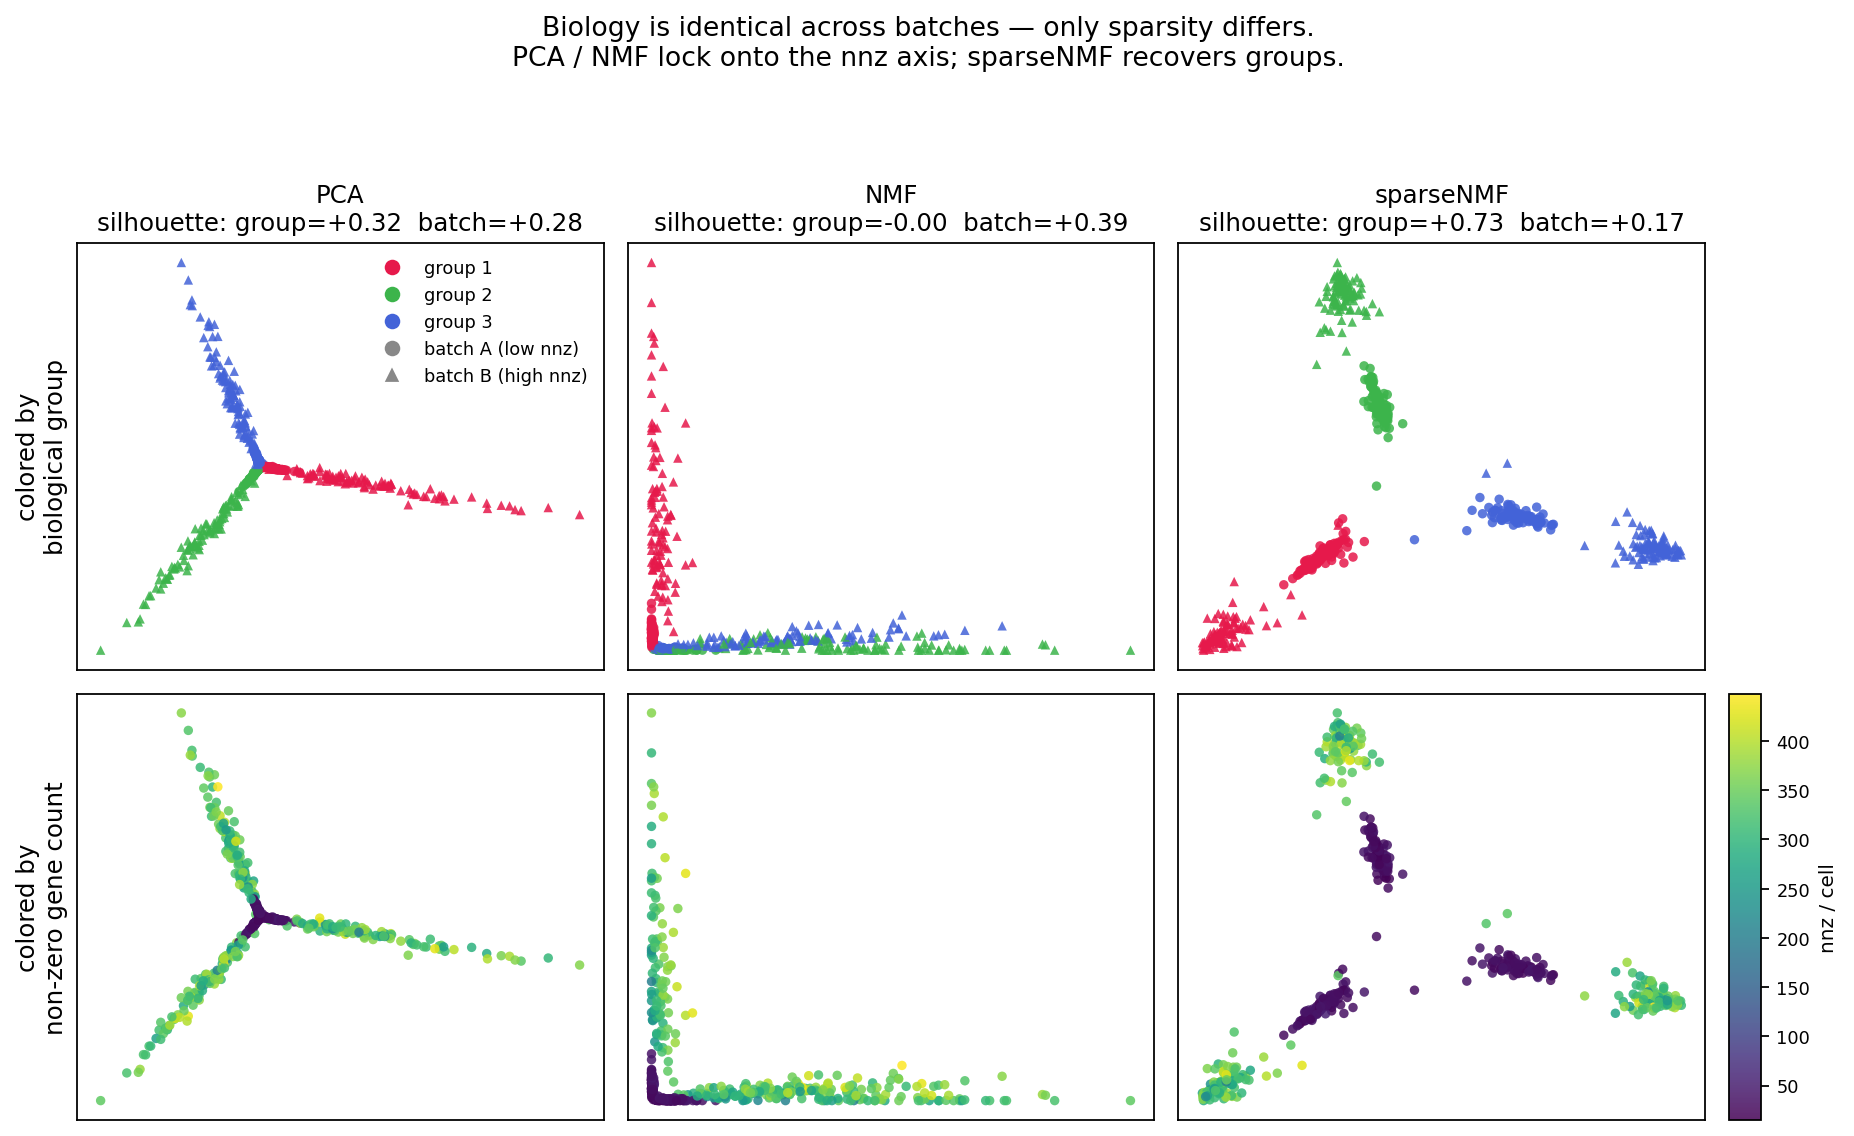
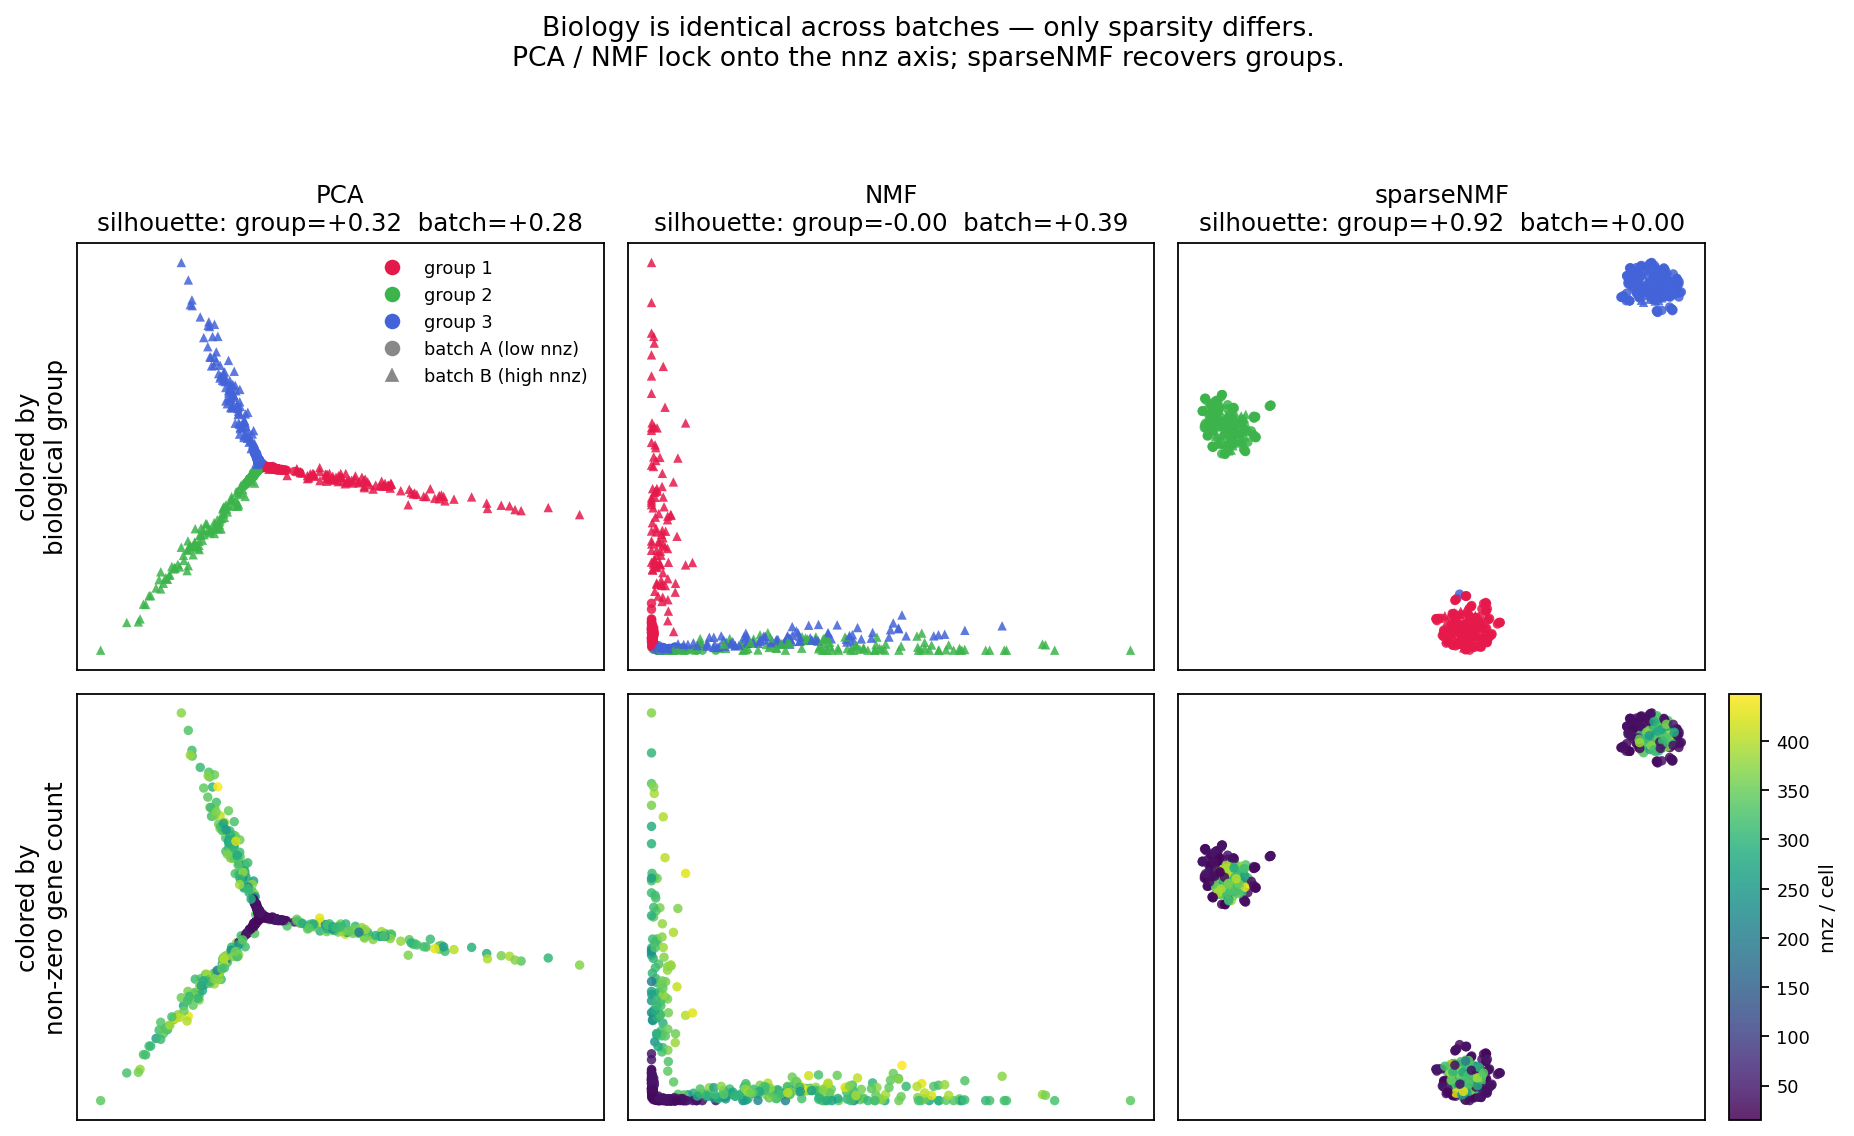
demo: project sparseNMF W via UMAP (standard single-cell workflow)
PCA(2) on the high-dim W matrix was a quick stand-in but loses the
non-linear cluster geometry that's the whole point of an embedding.
UMAP is the conventional 2-D projector after a high-dim factorization
in single-cell pipelines, and it's what the AoU phenome-landscape
notebook uses downstream of sparseNMF.

Concrete delta on the demo (same synthetic data, same sparseNMF call):
  group silhouette  +0.73  →  +0.92
  batch silhouette  +0.17  →  +0.00

The within-cluster nnz gradient — the residual library-depth signal
flagged in review — is fully eliminated in the bottom-right panel.

Adds umap-learn>=0.5 to the [viz] extra and a clear ImportError in
the demo when it's missing.

diff --git a/examples/sparsity_confound_demo.py b/examples/sparsity_confound_demo.py
@@ -142,10 +142,17 @@ def fit_sparse_nmf(X: csr_matrix, seed: int) -> np.ndarray:
     # With smart defaults (``normalize_inputs=True``, ``patience=10``,
     # ``n_components`` auto-sized from input shape), the call is now
     # essentially zero-config. Production W is high-dimensional
-    # (auto-sized ~k=75 for this demo's 600 × 900 input); we project to
-    # 2-D with PCA for visualization, which is the implicit final step
-    # in real sparseNMF pipelines.
-    from sklearn.decomposition import PCA
+    # (auto-sized ~k=75 for this demo's 600 × 900 input); we project
+    # to 2-D with UMAP — the standard non-linear projector used in
+    # single-cell pipelines after a high-dim factorization, and the
+    # last step in real-world sparseNMF workflows.
+    try:
+        import umap
+    except ImportError as e:
+        raise ImportError(
+            "This demo requires umap-learn for the 2-D projection. "
+            "Install with: pip install 'sparse-nmf[viz]'"
+        ) from e
 
     W, _model = train_sparse_nmf(
         X_sparse=X,
@@ -153,7 +160,7 @@ def fit_sparse_nmf(X: csr_matrix, seed: int) -> np.ndarray:
         random_state=seed,
         verbose=False,
     )
-    return PCA(n_components=2, random_state=seed).fit_transform(W)
+    return umap.UMAP(n_components=2, random_state=seed, n_jobs=1).fit_transform(W)
 
 
 def make_figure(

diff --git a/README.md b/README.md
@@ -78,9 +78,10 @@ so callers can write:
 
 ```python
 from sparse_nmf import train_sparse_nmf
+import umap
 
 W, model = train_sparse_nmf(X)        # X: scipy.sparse, no other args
-# (W is high-dimensional; project to 2-D with PCA/UMAP for plotting.)
+z = umap.UMAP(n_components=2).fit_transform(W)   # standard 2-D projection
 ```
 
 <p align="center">
@@ -92,11 +93,11 @@ group with 10× different nnz). Silhouette scores from the figure
 (higher = cleaner clusters; for batch, **closer to zero is better** —
 we want batches *mixed*):
 
-| method     | silhouette (group ↑) | silhouette (batch ↓) |
-|------------|---------------------:|---------------------:|
-| PCA        |                +0.32 |                +0.28 |
-| NMF        |            **+0.00** |            **+0.39** |
-| sparseNMF  |            **+0.73** |            **+0.17** |
+| method               | silhouette (group ↑) | silhouette (batch ↓) |
+|----------------------|---------------------:|---------------------:|
+| PCA (k=2)            |                +0.32 |                +0.28 |
+| NMF (k=2)            |            **+0.00** |            **+0.39** |
+| sparseNMF (k=auto) + UMAP |        **+0.92** |        **+0.00** |
 
 NMF collapses to a pure-sparsity embedding (group ≈ 0 ⇒ no biology
 captured). sparseNMF inverts the ratio: biology dominates, batch